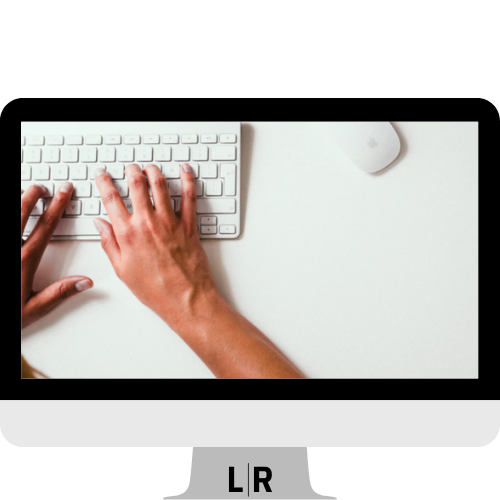
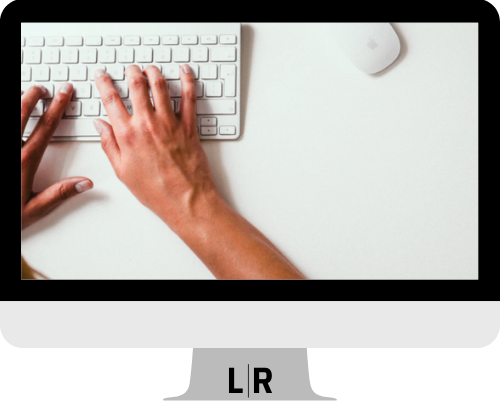
cropped pictures

diff --git a/src/data.js b/src/data.js
@@ -2,19 +2,19 @@ export const projects = [
     {
         id: 1,
         title: 'PiPlayer',
-        img: "https://github.com/LeticiaRossett/portfolio/blob/main/src/img/arduino.png?raw=true",
+        img: "https://github.com/LeticiaRossett/portfolio/blob/main/src/img/piplayer.png?raw=true",
         link: 'https://youtu.be/kzgRUfafP10'
     },
     {
         id: 2,
         title: 'Equity Portfolio',
-        img: "https://github.com/LeticiaRossett/portfolio/blob/main/src/img/arduino.png?raw=true",
+        img: "https://github.com/LeticiaRossett/portfolio/blob/main/src/img/equityportfolio.png?raw=true",
         link: 'https://youtu.be/wPrHO8olmH8'
     },
     {
         id: 3,
         title: 'Testing Skills Website',
-        img: "https://github.com/LeticiaRossett/portfolio/blob/main/src/img/arduino.png?raw=true",
+        img: "https://github.com/LeticiaRossett/portfolio/blob/main/src/img/fp.png?raw=true",
         link: 'https://youtu.be/lzhIeD7ED4I'
     },
     {

diff --git a/src/components/projects/projects.css b/src/components/projects/projects.css
@@ -8,5 +8,6 @@
 }
 
 .p-img{
-    width: 100%;
+    width: 90%;
+    height: 90%;
 }
